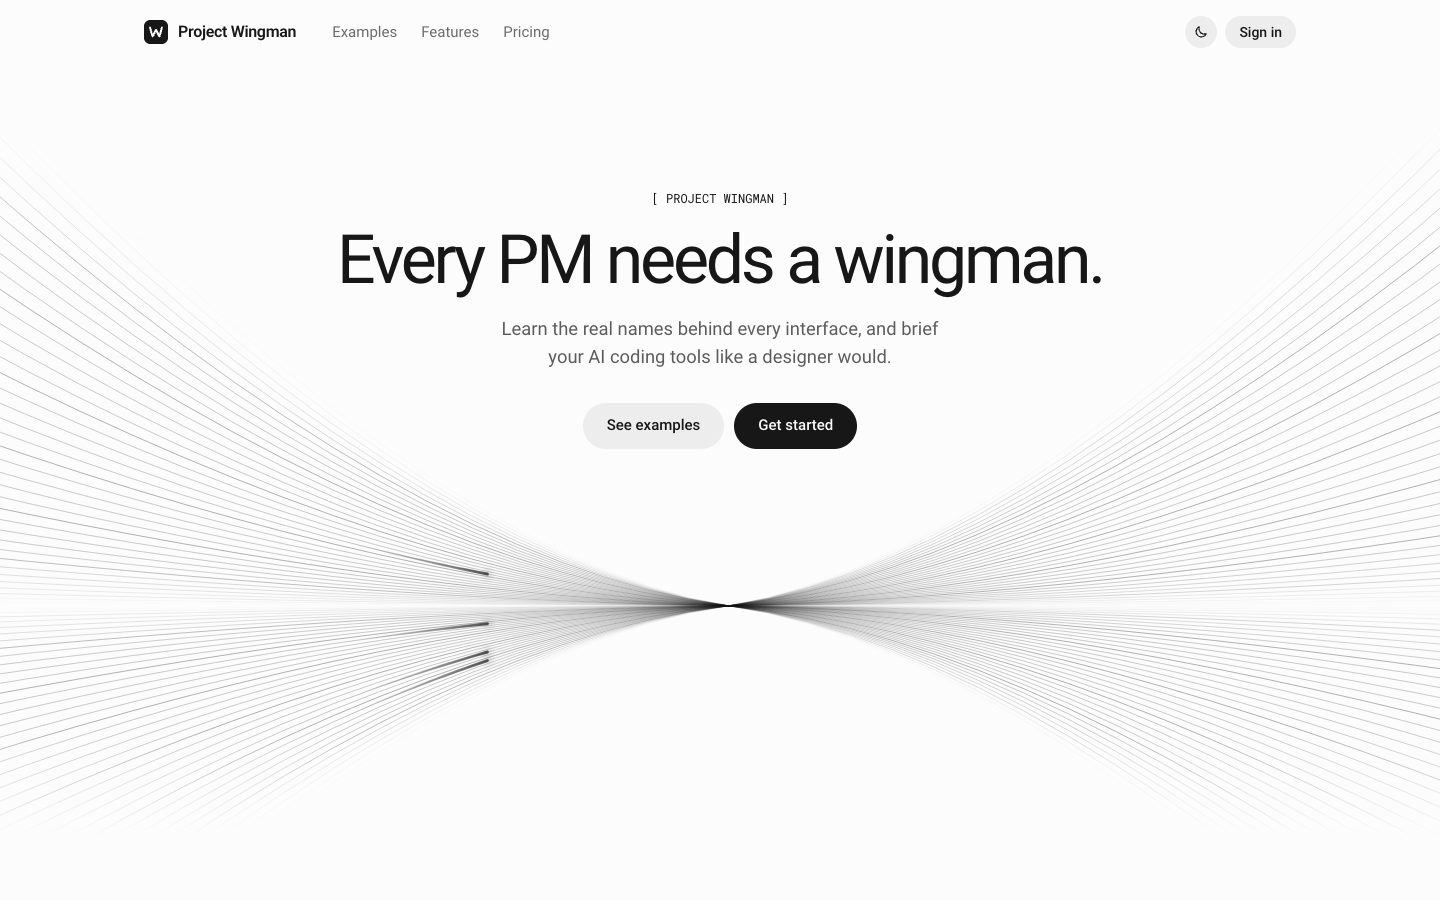
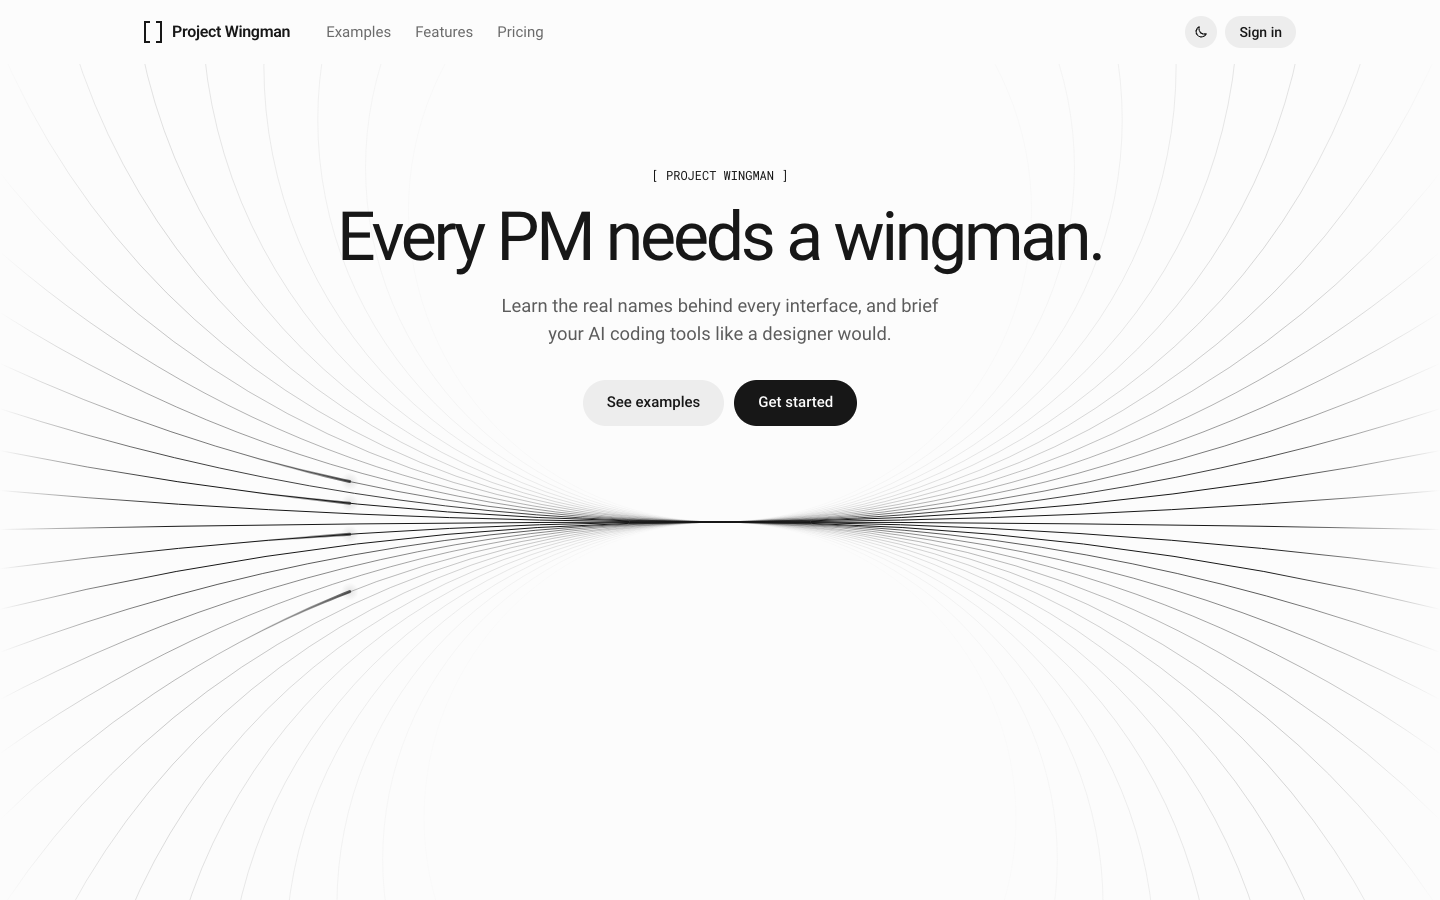
Update the README screenshots and design notes
New screenshots with the bracket logo and the new hero; DESIGN.md
covers the library, the hero's measured line art and the logo.

Changed region(s): [[0.0, 0.3733, 1.0, 0.84], [0.2188, 0.1867, 0.7812, 0.4978], [0.0938, 0.0, 0.375, 0.0622]]

diff --git a/DESIGN.md b/DESIGN.md
@@ -12,8 +12,9 @@ Last updated: 2026-10-26 · Status: Applied to the landing page
 | Visual direction | **Signal**: LayerZero's gray simplicity in light mode, Stargate's depth in dark mode | The two references share a language (neutral base, one accent, flat surfaces) that fits the light/dark pair. |
 | Accent color | One color, signal green, **only for learning moments** | Inspection outline, name tag, term chips, focus ring. Not used anywhere else. |
 | Typography | Roboto + Roboto Mono, the same as LayerZero | LayerZero's typefaces; both are open source (OFL). Self-hosted via Fontsource. Heading and label metrics are taken from LayerZero too. |
-| Signature visual | Symmetric rays in the hero (`src/brand/HorizonLines.tsx`): they come in from the left, narrow to a point in the middle and widen again toward the right. Every so often a shooting star passes: 2–5 beams come in along different rays on the left and meet at the focus point, and the merged beam leaves along another ray on the right | A motif inspired by LayerZero's hero. The metaphor: scattered ideas meet in one clear term and open up again from there. The shooting star animates that meeting. The flow runs left to right. |
-| Example interfaces | Not affected by the site theme; each keeps its own look (Muse is dark on purpose) | The examples stand for real products; they're part of the concept being taught, not of the brand. |
+| Signature visual | LayerZero's hero line art (`src/brand/HorizonLines.tsx`): every line is a circle that touches the horizon at the centre point, so from the sides they look like rays converging and flattening into one line; the whole field drifts slowly upward. Every so often a shooting star passes: 2–5 beams come in along different lines on the left and meet at the centre point, and the merged beam leaves along another line on the right | The geometry, spacing, opacity and speed were measured from LayerZero's canvas. One deliberate change: on wide screens their outer lines (the wings) faded too soon and the hero looked bland on landscape screens, so ours stay stronger further out. The metaphor: scattered ideas meet in one clear term and open up again from there. The shooting star (our own addition) animates that meeting. |
+| Logo | Two square brackets facing each other, empty inside, next to the name (`src/brand/BrandMark.tsx`); the favicon is the same mark | The site's `[ ]` label motif (as in `[ PROJECT WINGMAN ]`) made into a mark. Square ends and corners like the bracket glyphs, drawn on whole pixels so it stays crisp. |
+| Example interfaces | The examples follow the site theme; only Muse stays dark in both (dark by design) | Bright examples on a dark page felt off, and real products ship a dark mode too. Every example color is a `light-dark()` pair (Wave uses iOS's own light and dark system colors), and the balloons show color values for the theme in use, so what they explain always matches what's on screen. |
 | Inspection model | Like “Inspect element” in browser developer tools | Nearly every element can explain itself, and adding a new one takes a single `data-inspect` attribute. |
 | Pages and routing | `/` landing page, `/sign-in`, `/sign-up`, `/app` (signed-in workspace). A tiny router on the History API instead of a library | Four routes don't justify a dependency; links stay real `<a href>` elements, so opening in a new tab works. |
 | Auth | No backend yet. The session lives in `localStorage`; the sign-in functions already have the shape a real provider will need | The pages won't change when a provider (Supabase, Firebase, Clerk…) is connected. Until then, a development-only account opens the workspace. |
@@ -30,7 +31,7 @@ Hero          [ PROJECT WINGMAN ] · “Every PM needs a wingman.” · See exam
 Footer        Text links · Back to top
 ```
 
-Other pages: `/sign-in` and `/sign-up` (the header's Sign in and the plans' buttons lead here) and `/app`, the signed-in workspace. Once signed in, Sign in becomes Workspace in the header and the footer.
+Other pages: `/sign-in` and `/sign-up` (the header's Sign in and the plans' buttons lead here) and the signed-in library: `/app/mobile`, `/app/web` and one page per example at `/app/<platform>/<id>`. Once signed in, Sign in becomes Workspace in the header and the footer. Under the landing page's examples, “Explore the library” leads in.
 
 - **The header isn't a bar, but it's sticky:** Fully transparent at the top of the page; as you scroll down it takes on a borderless frosted-glass background. Links go to sections, the logo goes back to the top, and the link of the section in view gets darker. Sections stop below the header thanks to `scroll-margin-top`.
 - **Footer:** Not a bar; text links sitting on the page background.
@@ -55,6 +56,15 @@ In the scaled-down phones and in windows settling into place, the outline and th
 
 **Animated demos pause while inspected.** Muse's dropdown opens and closes on its own when idle. It holds still while the pointer is over the example, keyboard focus is inside it or a balloon is open, so the menu itself can be inspected too. Demos read this state with `useInspectActivity()`.
 
+## Library
+
+- **Two tabs, Mobile and Web,** in a pill-shaped segmented control with the count of examples. Like a pattern gallery (Mobbin): category chips, and a search that matches names, inspirations and every element's name, aliases and terms (“bottom sheet” finds the apps that have one).
+- **Examples are fictional products** built from the patterns of well-known ones; real names only appear as “Inspired by”. No real logos or brands inside the demos.
+- **Mobile grid:** phones scale to their column and can be inspected right there, like on the landing page. Each card's heading stays on one line so phones in a row line up.
+- **Web grid:** a still, scaled-down picture of each site at desktop width (1280 px); the whole card opens the site's page. Previews can't be focused or inspected.
+- **Example page:** the example at full size and all of its elements written out as a glossary: name, tag, variant, summary, “also called”, and each concept with its term and value (for the theme in use). Phones stay in view on the left while the list scrolls; sites use the scroll scene, with the glossary below. Previous/next links walk through the tab.
+- The library loads separately from the landing page, so the public page stays light.
+
 ## Sign-in and sign-up
 
 - **Layout:** A minimal header (logo and theme toggle), the hero's line art faint behind, and the form in a 400 px card. The card opens like a landing section: a mono `[ SIGN IN ]` label, a large light heading (“Welcome back.”), a muted lead.
@@ -66,7 +76,7 @@ In the scaled-down phones and in windows settling into place, the outline and th
 
 ## Mobile demos
 
-- **Wave:** The classic iOS language. Light background, list rows, toggle switches, a FAB and a bottom tab bar.
+- **Wave:** The classic iOS language. Grouped background, list rows, toggle switches, a FAB and a bottom tab bar. In dark mode it uses iOS's dark system colors: black background, `#1c1c1e` cells, darker separators and the brighter `#30d158` switch.
 - **Muse:** A newer kind of app: an AI assistant in the Liquid Glass style. A glass navbar floating over a dark, colorful background, a glass dropdown that opens and closes on its own, chat bubbles, a typing indicator, glass suggestion chips, a glass composer and a voice button with a color ring.
   - Liquid Glass recipe: `backdrop-filter: blur() saturate(180%)`, a translucent white background, a thin white border and a highlight along the top edge made with an inset shadow.
 - **Stride:** A shopping product page. A must-have in the collection, because it gathers the elements PMs most often look up by name on a single screen:
@@ -75,6 +85,7 @@ In the scaled-down phones and in windows settling into place, the outline and th
   - Star rating, color and size pickers (including a sold-out size).
   - Quantity stepper and a sticky buy bar.
   - A toast that comes and goes on its own (stays visible while inspected).
+  - In dark mode: a warm dark gallery behind the coral shoe, a dark details panel, and the selections (size, color ring, Add to bag) flip to light.
 
 ## Color tokens
 
@@ -94,7 +105,8 @@ All of them live in `src/styles/tokens.css` and are defined with `light-dark(lig
 | `--color-fill-secondary` | black 6% | white 8% | Secondary button (LayerZero's gray button) |
 | `--color-accent` | `#0a8f65` | `#0fb983` | Non-text accent |
 | `--color-accent-text` | `#087a56` | `#0fb983` | Accent text |
-| `--color-inspect` | `#0a8f65` | `#0a8f65` | Inspection outline (fixed: the examples are always light) |
+| `--color-inspect` | `#0a8f65` | `#0fb983` | Inspection outline and name tag; brighter in dark mode to stand out on dark examples |
+| `--color-on-inspect` | `#ffffff` | `#04281c` | Text on the name tag |
 | `--color-danger` | `#b42318` | `#f97066` | Form errors (≥6:1 against the surfaces) |
 
 The explainer balloon uses an inverted surface in light mode (`#171717`) and a surface one step up in dark mode (`#202020`).
@@ -114,10 +126,13 @@ Typefaces and metrics are taken one to one from LayerZero.
 - **Corners:** Buttons are fully rounded (pills); the theme toggle and the pause button are circles. Cards 8–12 px; chips and badges fully rounded.
 - **Flat surfaces:** No shadows; hairlines separate things. Only floating elements (balloon, phone, browser window) get a shadow.
 - **Motion:**
-  - The rays drift left to right by one ray spacing every ~3.2 seconds; the focus point sways gently on a 16-second cycle.
+  - Hero lines, as measured on LayerZero:
+    - A line at angle φ is a circle of radius (hero height ÷ 2) ÷ tan φ, touching the horizon at the centre point. The horizon sits 40 px below the hero's middle (60 px under 768 px wide).
+    - Lines are 3.6° apart (6° under 768 px) and 1 px wide. Every angle grows at the same rate, so lines rise from below, flatten into the horizon and curl away above: 1.7°/s from 1440 px wide, faster on narrower screens (6.5°/s at 390 px).
+    - Opacity grows linearly with a line's radius: clear at 141 px, full at 1889 px under 768 px, as on LayerZero. On wide screens it's clear at 270 px and full at 2800 px, and lines fade out over the outer 12% of the width on each side (LayerZero: 440–5480 px and the outer quarter, which left the wings faint). The field is at most 1920 px wide.
   - The shooting star is rare: the first one after ~3 seconds, then at random 8–14 second intervals.
-    - Path: 2–5 beams (random each time) speed in from rays far apart on the left and meet at the focus point at the same moment (a short, soft flash). The merged beam slows down as it leaves along a different ray on the right than the last one, and fades as it nears the edge. Each beam follows its ray, recomputed every frame, so it never leaves the moving line.
-    - Shape: A teardrop. A full, round head with a single tapering, fading tail; no dotted trail. A short drop when slow, a long beam as it passes the focus point. Same color as the lines, so it follows the theme; the glow around the head is dimmed in light mode.
+    - Path: 2–5 beams (random each time) speed in from lines far apart on the left and meet at the centre point at the same moment (a short, soft flash). The merged beam slows down as it leaves along a line on the right, at a different angle than the last one, and fades as it nears the edge. Beams only ride clearly visible lines and move with them as the field drifts, so they never leave their line.
+    - Shape: A teardrop. A full, round head with a single tapering, fading tail; no dotted trail. A short drop when slow, a long beam as it passes the centre point. Same color as the lines, so it follows the theme; the glow around the head is dimmed in light mode.
   - Site scenes: The window grows from 92% to 100% as it reaches its pinned position. Once pinned, there's a short hold before the content starts scrolling and before the window is released (~12% of the viewport height, at most 120 px). While scrolling, a thin macOS-style scrollbar appears on the right.
   - Features marquee: Two identical groups sit end to end and drift left by one group's width every 80 seconds (~25–30 px/s); the edges fade out softly. It stops under the pointer or with the button.
   - The inspection outline slides between elements in 120 ms.

diff --git a/README.md b/README.md
@@ -2,7 +2,7 @@
 
 <picture>
   <source media="(prefers-color-scheme: dark)" srcset="docs/screenshots/hero-dark.png">
-  <img alt="Project Wingman landing page: the headline “Every PM needs a wingman.” above converging line art, with a shooting star heading for the focus point" src="docs/screenshots/hero-light.png">
+  <img alt="Project Wingman landing page: the headline “Every PM needs a wingman.” above lines converging on a horizon, with a shooting star's lights coming in from the left" src="docs/screenshots/hero-light.png">
 </picture>
 
 **The PM's best friend for design.** Project Wingman teaches product managers and founders the real names behind
@@ -12,23 +12,33 @@ design briefs that AI coding tools such as Claude Code and Cursor understand.
 ## A look inside
 
 Hover anything in the examples to learn what it's called. Click to pin the full explanation: how it looks, how it
-behaves, and the exact CSS behind it.
+behaves, and the exact CSS behind it. The examples switch to dark mode with the page (Muse is dark by design), and the
+balloons show the values for the theme you're in.
 
-![The Acme example pinned in its scroll scene, with the frosted-glass navbar's explanation open](docs/screenshots/inspect-light.png)
+<picture>
+  <source media="(prefers-color-scheme: dark)" srcset="docs/screenshots/inspect-dark.png">
+  <img alt="The Acme example pinned in its scroll scene, with the frosted-glass navbar's explanation open" src="docs/screenshots/inspect-light.png">
+</picture>
 
-Three mobile apps side by side, here in dark mode, with a preview of Muse's Liquid Glass navbar:
+Three mobile apps side by side, with a preview of Muse's Liquid Glass navbar:
 
-![The Wave, Muse and Stride phone examples in one row on the dark theme, with a balloon describing the Liquid Glass navbar](docs/screenshots/phones-dark.png)
+<picture>
+  <source media="(prefers-color-scheme: dark)" srcset="docs/screenshots/phones-dark.png">
+  <img alt="The Wave, Muse and Stride phone examples in one row, with a balloon describing the Liquid Glass navbar" src="docs/screenshots/phones-light.png">
+</picture>
 
-## Current status: landing page and sign-in
+## Current status: landing page, sign-in and the library
 
 An English landing page with a sticky header (with a theme toggle), a hero, examples, feature cards, pricing and a
 footer. The examples section has five projects (a marketing site, an analytics dashboard and three mobile apps), and
 nearly every element shows its name on hover, a summary after a short pause and the full explanation on click.
 
-Sign-in (`/sign-in`) and sign-up (`/sign-up`) pages lead to a placeholder signed-in workspace (`/app`). There's no
-auth backend yet: email and password sign-in only works with the development account below, and Google sign-in and
-sign-ups show a “not connected yet” message.
+Sign-in (`/sign-in`) and sign-up (`/sign-up`) pages lead to the library (`/app/mobile`, `/app/web`): mobile apps and
+websites in two tabs, each a fictional product built from the patterns of well-known ones (“inspired by” Spotify,
+Airbnb, Stripe, Linear and others). Phones can be inspected right in the grid; every example also has its own page
+(`/app/<platform>/<id>`) with all of its elements written out. A search finds examples by name or by element
+(“bottom sheet”, “toast”). There's no auth backend yet: email and password sign-in only works with the development
+account below, and Google sign-in and sign-ups show a “not connected yet” message.
 
 Out of scope for now (later phases): a real auth backend, payments and subscriptions (plan prices are placeholders),
 and a real LLM integration.
@@ -73,9 +83,10 @@ setting (light or dark) and can be switched from the header. All visual decision
 src/
   landing/     Landing page sections: header, theme toggle, hero, examples, feature cards, pricing, footer
   auth/        Sign-in and sign-up pages, the session store (no backend yet) and the dev account
-  workspace/   The signed-in area at /app (a placeholder for now)
-  demos/       Inspectable example projects: AcmeSite, OrbitDashboard, WaveApp, MuseApp, StrideApp (+ shared StatusBar)
-  catalog/     Element descriptions (English, typed data): marketing, dashboard, mobile, assistant, commerce
+  workspace/   The signed-in area: the library's tabs, search and grids, and each example's page with its glossary
+  library/     The library: types, the registry, and one folder per example (mobile/<id>, web/<id>)
+  demos/       The landing page's five examples: AcmeSite, OrbitDashboard, WaveApp, MuseApp, StrideApp (+ StatusBar)
+  catalog/     Element descriptions (English, typed data) for those five, plus elements every phone shares
   inspector/   The “inspect element” layer: InspectSurface, explainer balloon, positioning
   showcase/    Frames and the interaction guide: the browser frame as a scroll scene (useScrollScene), a scalable phone
   brand/       Logo and the hero's animated line art (with the shooting star)
@@ -86,25 +97,35 @@ docs/
   screenshots/ Images used in this README
 ```
 
+## Adding a library example
+
+Create a folder; the library picks it up on its own (`import.meta.glob` in `src/library/index.ts`):
+
+```
+src/library/<mobile|web>/<id>/
+  <Name>.tsx         the demo (a named export)
+  <Name>.module.css  its styles
+  specs.ts           a UiElementSpec for every data-inspect id the demo uses
+  index.ts           export const <id>: LibraryExample = { id, platform, name, kind, category, inspiredBy, … }
+```
+
+- **The demo is a picture:** no real links, buttons or inputs (`<a>` without `href`, `<span>`), since it sits inside
+  one focusable region. Colors are `light-dark()` pairs so it follows the theme. Anything that moves on its own
+  pauses while inspected (`useInspectActivity()`).
+- **Mobile** fills a 280 × 600 phone screen and starts with the shared `<StatusBar />`; reuse the `statusBar` and
+  `homeIndicator` specs from `src/catalog`. **Web** sets `container-type: inline-size` and works from about 340 px to
+  1150 px wide; it can be taller than the window.
+- **Names are fictional;** real products go in `inspiredBy`.
+
 ## Adding a UI element
 
-1. Write the description: add a `UiElementSpec` to the matching catalog file (`src/catalog/marketing.ts`,
-   `dashboard.ts`, `mobile.ts`, `assistant.ts` or `commerce.ts`), with the demo's real CSS values in its `value`
-   fields.
+1. Write the description: add a `UiElementSpec` to the example's `specs.ts` (for the landing page's five, the
+   matching file in `src/catalog/`), with the demo's real CSS values in its `value` fields. A color that differs by
+   theme is `{ light, dark }`.
 2. Mark it in the demo: add a `data-inspect="<id>"` attribute to the element.
 
-Hover, click, touch, keyboard, outline, balloon and the element counter all work automatically. An id with no catalog
-entry logs a warning to the console during development.
-
-## Adding an example project
-
-1. Write the component under `src/demos/`. Don't use real links or buttons (use `<a>` without `href`, or `<span>`),
-   and keep its colors fixed.
-2. In `src/landing/Examples.tsx`, wrap it in a `BrowserFrame` or a `PhoneFrame` and put it inside an `InspectSurface`
-   (`fill` for phones). `BrowserFrame` is a scroll scene: the window pins and page scrolling scrolls its content.
-   Phones stay in one row and shrink together when they don't fit.
-3. If the demo animates on its own (a menu that opens and closes, a toast that comes and goes), pause it while it's
-   being inspected with `useInspectActivity()`.
+Hover, click, touch, keyboard, outline, balloon, the element counter and the glossary all work automatically. An id
+with no description logs a warning to the console during development.
 
 ## Interaction model
 
